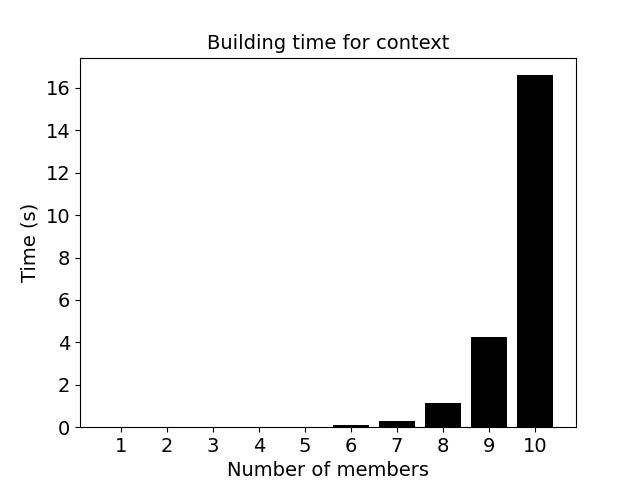
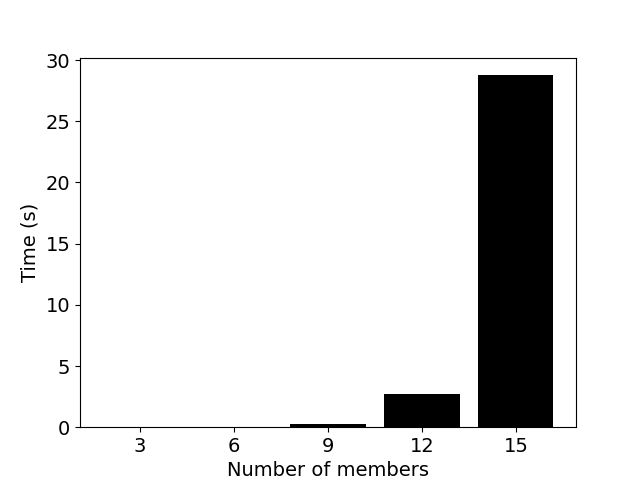
Comments + building time

diff --git a/src/nfqueue/packet_state.py b/src/nfqueue/packet_state.py
@@ -1,9 +1,8 @@
 """
-This class checks if packets are protocol compliant and detect their role by asking questions
-to the ProtocolDecoder class.
-This class makes no assumption on the protocol used and divide the packets in push and pull protocols.
-At the end, it returns a verdict indicating to the PacketHandler class if the packet should be allowed, matched to the
-constraints and fed to the context.
+This class checks if the packets are protocol compliant and detects their role by asking questions to the
+ProtocolDecoder class. This class makes no assumptions about the protocol used and divides packets into push and pull
+protocols. At the end, it returns a verdict telling the PacketHandler class whether the packet should be allowed, match
+the constraints and be sent to the context.
 """
 
 from enum import Enum
@@ -33,7 +32,6 @@ class PacketState:
                 request_packet = self.protocol_decoder.ask_protocol(packet, "match_request", self)
                 if request_packet:
                     # print("Packet state log: Response matched")
-
                     # allow and update context if request was successful
                     return True, True, self.protocol_decoder.ask_protocol(packet, "is_request_successful",
                                                                           request_packet)
@@ -43,7 +41,6 @@ class PacketState:
 
             else:
                 # neither a request nor a response
-
                 # action can be triggered by the protocol when it sees a certain signaling packet
                 # print("Packet state log: Pull packet signaling")
                 return self.protocol_decoder.ask_protocol(packet, "update_packet_state", self), False, False
@@ -74,7 +71,6 @@ class PacketState:
 
             else:
                 # neither subscribe message nor publish message
-
                 # action can be triggered by the protocol when it sees a certain signaling packet
                 # print("Packet state log: Push packet signaling")
                 return self.protocol_decoder.ask_protocol(packet, "update_packet_state", self), False, False
@@ -106,9 +102,7 @@ class PacketState:
                 del self.subscriptions[key]
 
     # pull packet matching
-
     def has_request(self, packet, key):
-
         # src and dst inverted because check done with response
         packet_request: AbstractPacket = self.requests.get((packet.dst, packet.src, packet.proto, key))
         if packet_request:
@@ -116,9 +110,7 @@ class PacketState:
         return None
 
     # push packet matching
-
     def has_subscription(self, packet, key):
-
         # src and dst inverted because check done with publish
         # print("Packet state log: has_subscription: " + str((packet.dst, packet.src, packet.proto, key)))
         packet_subscription: AbstractPacket = self.subscriptions.get((packet.dst, packet.src, packet.proto, key))

diff --git a/evaluation/building/building_time.py b/evaluation/building/building_time.py
@@ -5,14 +5,15 @@ import matplotlib.pyplot as plt
 file = open('data.csv')
 csvreader = csv.reader(file)
 
-nftables = next(csvreader)
-context = next(csvreader)
+nftables_time = next(csvreader)
+context_time = next(csvreader)
+relations_time = next(csvreader)
 
 FONT_SIZE = 14
 
-x = ["1", "2", "3", "4", "5", "6", "7", "8", "9", "10"]
-y_axis = [nftables, context]
-titles = ["Nftables", "context", "total"]
+x_relations = ["10", "20", "30", "40", "50", "60", "70", "80", "90", "100"]
+x_context = ["3", "6", "9", "12", "15"]
+
 
 def float_array(array):
     r = []
@@ -21,30 +22,25 @@ def float_array(array):
     return r
 
 
-i = 0
-for y in y_axis:
-    plt.rcParams.update({'font.size': FONT_SIZE})
-    y = float_array(y)
-    title = f"Building time for {titles[i]}"
-    plt.title(title, fontsize=FONT_SIZE)
-    plt.bar(x, y, color='black', width=0.8)
-    plt.xlabel('Number of members', fontsize=FONT_SIZE)
-    plt.ylabel('Time (s)', fontsize=FONT_SIZE)
-    plt.savefig(f"./graphs/{titles[i]}_building_time.png")
-    plt.show()
-    i += 1
+plt.rcParams.update({'font.size': FONT_SIZE})
+plt.bar(x_context, float_array(context_time), color='black', width=0.8)
+plt.xlabel('Number of members', fontsize=FONT_SIZE)
+plt.ylabel('Time (s)', fontsize=FONT_SIZE)
+plt.savefig(f"./graphs/context_building_time.png")
+plt.show()
 
-y1 = float_array(y_axis[0])
-y2 = float_array(y_axis[1])
-y = []
-for j in range(len(y1)):
-    y.append(y1[j] + y2[j])
-print()
-title = "Total building time"
-plt.title(title, fontsize=FONT_SIZE)
-plt.bar(x, y, color='black', width=0.8)
+y_total = []
+for j in range(len(nftables_time)):
+    y_total .append(float(nftables_time[j]) + float(context_time[j]))
+plt.bar(x_context, y_total, color='black', width=0.8)
 plt.xlabel('Number of members', fontsize=FONT_SIZE)
 plt.ylabel('Time (s)', fontsize=FONT_SIZE)
 plt.savefig(f"./graphs/total_building_time.png")
 plt.show()
 
+
+plt.bar(x_relations, float_array(relations_time), color='black', width=0.8)
+plt.xlabel('Number of relations', fontsize=FONT_SIZE)
+plt.ylabel('Time (s)', fontsize=FONT_SIZE)
+plt.savefig(f"./graphs/relations_building_time.png")
+plt.show()

diff --git a/src/context/network.py b/src/context/network.py
@@ -1,7 +1,7 @@
 """
-This class defines the main data structure to represent the context of the Network. The NetworkContext class maintains a
-finite state machine which can take (field, value) input to perform a transition. The FSM can be drawn at runtime
-and its triggers functions are used to attach functions to the transitions.
+This class defines the main data structure to represent the network context. The NetworkContext class maintains a finite
+state machine that can take an input (field, value) to perform a transition. The FSM can be drawn at runtime and its
+trigger functions are used to attach functions to transition.
 """
 
 import itertools as it
@@ -34,7 +34,7 @@ class DeviceState(State):
     def enter(self, event):
         self.count += 1
         if not self.is_consistent:
-            print("Network log: Entering inconsistent state")
+            print("Network log: Entering inconsistent state, raising alarm")
 
     def exit(self, event):
         if not self.is_consistent:
@@ -59,7 +59,6 @@ class NetworkContext(GraphMachine):
         self.proba_threshold = 0.05
         # length of the sequence to maintain
         self.k = 10
-
         # minimum count for a state to become frequent
         self.frequent_state_threshold = 50
 
@@ -141,7 +140,6 @@ class NetworkContext(GraphMachine):
 
     def update_sequence(self, event):
         # recalculate the current proba
-
         transition_count = self.transitions_data[(event.transition.source, event.transition.dest)]["count"]
         state_count = self.get_state(self.state).count
 

diff --git a/src/nfqueue/handling_queue.py b/src/nfqueue/handling_queue.py
@@ -1,7 +1,6 @@
 """
-This class defines the queue responsible for the application layer matching. This is where
-most of the other Nfqueue classes are used to decide whether a packet should be accepted or
-dropped.
+This class defines the queue responsible for the application layer matching. This is where most of the other Nfqueue
+classes are used to decide whether a packet should be accepted or dropped.
 """
 
 from multiprocessing import Queue
@@ -48,11 +47,11 @@ class PacketHandler:
                     abstract_packet.set_mark(raw_packet.get_mark())
                     decision = self.mapping.decision(abstract_packet)
 
-                    # The packet has an app layer which matches
+                    # the packet has an app layer which matches
                     if decision == Policy.ACCEPT:
                         print("Handling queue log: Packet accepted!")
                         raw_packet.accept()
-                    # The packet has an app layer which does not match
+                    # the packet has an app layer which does not match
                     else:
                         print("Handling queue log: Packet dropped!")
                         raw_packet.drop()
@@ -72,7 +71,7 @@ class PacketHandler:
                 raw_packet.drop()
                 return
 
-        # This can be reached if this is a signal packet such as SYN/ACK
+        # this can be reached if this is a signal packet such as SYN/ACK
         raw_packet.accept()
 
 

diff --git a/src/nfqueue/mqtt_decoder.py b/src/nfqueue/mqtt_decoder.py
@@ -1,6 +1,6 @@
 """
-A specialized MQTT Decoder, with a decode function to parse the application layer and functions to decode the behavior
-of the protocol.
+A specialized MQTT decoder, with a decoding function to parse the application layer and functions to decode the protocol
+behavior.
 """
 
 from enum import Enum
@@ -62,7 +62,7 @@ class MQTTDecoder:
             header["RETAIN"] = header["control_header_flag"] & 1
 
         # variable header
-        ## packet_identifier
+        # packet_identifier
 
         if MQTTMessageType.has_packet_identifier(MQTTMessageType(header["control_header_type"]),
                                                  header.get("QOS", None)):
@@ -72,7 +72,7 @@ class MQTTDecoder:
             header["packet_identifier"] = int.from_bytes(app_layer[offset:offset + 2], byteorder='big')
             offset += 2
 
-        ## connect fields
+        # connect fields
 
         if MQTTMessageType(header["control_header_type"]) == MQTTMessageType.CONNECT:
             decoded_length = self.decode_connect_variable_header(header, app_layer, offset)
@@ -153,8 +153,6 @@ class MQTTDecoder:
         offset += 2
 
         # connect properties
-        # TODO Not essential for the moment
-
         header["connect_variable_header"] = connect_variable_header
 
         return offset

diff --git a/src/context/context.py b/src/context/context.py
@@ -1,7 +1,7 @@
 """
-This class is the main module for updating the context, it coordinates the NetworkContext class and the Triggers
-class. The packet placed in the queue in the PacketHandler class arrives here to be fed into the NetworkContext Class
-data structure.
+This class is the main module for the context update, it coordinates the NetworkContext class and the Triggers class.
+The packets placed in the queue of the PacketHandler class arrive here to be fed to the data structure of
+the NetworkContext.
 """
 
 from _queue import Empty
@@ -34,17 +34,14 @@ class Context:
 
     def run(self):
         # self.network_context.draw_fsm()
-
         while self.keep_running:
             try:
                 packet: AbstractPacket = self.packet_queue.get(block=True, timeout=1)
-
                 for content in packet.content:
                     device = get_device_name(packet.src, self.members)
                     self.update_context(device, content)
                     # self.network_context.show_current_state()
                     # self.network_context.draw_fsm()
-
             except Empty:
                 pass
 

diff --git a/src/nfqueue/coap_decoder.py b/src/nfqueue/coap_decoder.py
@@ -1,6 +1,6 @@
 """
-A specialized Coap Decoder, with a decode function to parse the application layer and functions to decode the behavior
-of the protocol.
+A specialized CoAP decoder, with a decoding function to parse the application layer and functions to decode the protocol
+behavior.
 """
 
 from enum import Enum
@@ -279,7 +279,6 @@ class CoAPDecoder:
     def is_unsubscribe_packet(self, packet):
         response = CoAPResponseCode.enum(packet.header["Code"])
         # should unsubscribe when observation time reaches MAX_AGE without refreshing or a code 4.xx or 5.xx is received
-        # TODO trigger packet_state.unsubscribe when MAX_AGE is reached (in this class) or trigger it when response after MAX_AGE arrives (in this function then)
         return CoAPResponseCode.is_unsuccessful(response)
 
     def revert_direction(self, packet):

diff --git a/src/context/input.py b/src/context/input.py
@@ -1,8 +1,6 @@
 """
-This file contains the class responsible for categorizing floating values
-into labels. It also defines the context input, which uses the previously
-parsed input to build the necessary data structures used to initialize the
-context.
+This file contains the class responsible for categorizing floating values into labels. It also defines the context
+input, which uses the previously parsed input to build the necessary data structures used to initialize the context.
 """
 
 import numpy as np
@@ -48,7 +46,7 @@ class Categorization:
         categorizer = self.mapping[field]["categorizer"]
         intervals = self.mapping[field]["intervals"]
 
-        result = categorizer(np.digitize(value, intervals))  # also work with array
+        result = categorizer(np.digitize(value, intervals))
 
         return result.__str__()
 

diff --git a/src/nfqueue/relation_mapping.py b/src/nfqueue/relation_mapping.py
@@ -1,7 +1,7 @@
 """
-This class defines the relation mapping used to match relations to their constraints
-in order to complete the last step of the application layer matching. It is also
-responsible for tracking the status of relations, whether they are enabled or disabled.
+This class defines the relation mapping used to match relations to their constraints in order to complete the last step
+of the application layer matching. It is also responsible for tracking the status of relations, whether they are enabled
+or disabled.
 """
 
 from client.constant import *
@@ -28,7 +28,7 @@ def match_packet(packet, mapping_entry):
         if not relation.enabled:
             return False
 
-        # No constraint on this relation
+        # no constraint on this relation
         if not relation.constraints:
             return True
 

diff --git a/src/context/triggers.py b/src/context/triggers.py
@@ -1,6 +1,6 @@
 """
-This class handles the triggers of the NetworkContext class, theses are functions used to disable and enable
-the relations dynamically. No assumption on the data structure used in the NetworkContext class is made here.
+This class manages the triggers of the NetworkContext class, these are functions used to deactivate and activate
+relations dynamically. This class can interact with any type of NetworkContext data structure, not necessarily an FSM.
 """
 
 from context.network import NetworkContext

diff --git a/src/nfqueue/abstract_packet.py b/src/nfqueue/abstract_packet.py
@@ -1,6 +1,6 @@
 """
-This class defines the abstract data of a packet common for all application protocols. It contains all the
-functions to parse all the packet layers and communicate with the ProtocolDecoder class to parse the application layer.
+This class defines the abstract data of a packet common to all application layer protocols. It contains all the
+functions to parse the different layers, but also to communicate with the ProtocolDecoder.
 """
 
 import scapy.all as scapy

diff --git a/src/nfqueue/protocol_decoder.py b/src/nfqueue/protocol_decoder.py
@@ -1,6 +1,6 @@
 """
-This class is responsible for the decoding of the application layer of the packets and to answer the questions of
-the PacketState class. For both of these tasks, it has to choose the correct specialized decoder.
+This class is responsible for decoding the application layer of packets and answering questions from the PacketState
+class. For these two tasks, it must choose the right specialized decoder.
 """
 
 import re
